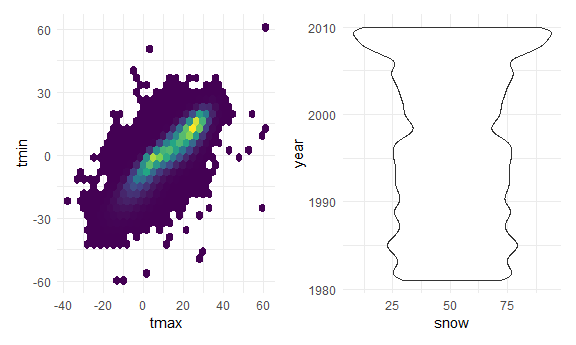
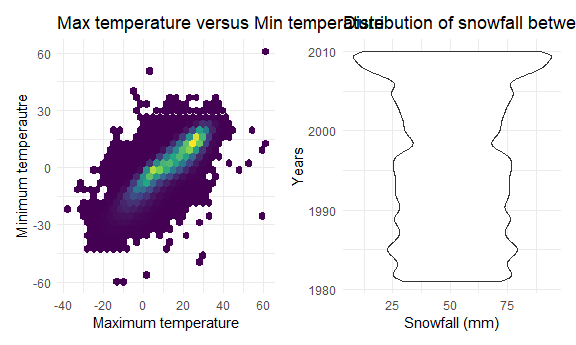
editing explanations and making graphs prettier

diff --git a/p8105_hw3_smv2138.md b/p8105_hw3_smv2138.md
@@ -210,7 +210,10 @@ variable to create a day\_type variable which indicates whether it is a
 weekday or a weekend. Furthermore, I pivoted the activity counts and
 minutes variables to longer. Now there is an activity count and min of
 the day variable in tidy format.Furthermore, by re-leveling the data,
-the days of the week will be listed in intuitive order.
+the days of the week will be listed in intuitive order. Lastly, there is
+a week variable which numbers the weeks during the observational period
+(1-5 weeks). All this data was collected from a 63 year old man with a
+BMI of 25 who was diagnosed with congestive heart failure.
 
 ### Part 2
 
@@ -302,13 +305,13 @@ day. Ensure observations for temperature, precipitation, and snowfall
 are given in reasonable units. For snowfall, what are the most commonly
 observed values? Why?
 
+Load data
+
 ``` r
 data("ny_noaa")
 ```
 
-Notes for me: Separated the date varible. Converted prcp, snow, snwd,
-tmin and tmax to numeric. Changed prcp, snow and snwd from mm to cm.
-Changed tmax and tmin from tenth of degrees of C to C.
+Clean data
 
 ``` r
 ny_noaa =
@@ -342,11 +345,10 @@ ny_noaa %>%
     ## 10     3    8790
     ## # ... with 272 more rows
 
-The most commonly observed value for snowfall in cm is 0. This is
-probably due to the fact that the data is collected from all around the
-world, and in many parts of the world, snow is rare or infrequent.
-Furthermore, the season also impacts how much snow or if there is snow
-at all in these regions.
+The most commonly observed value for snowfall in mm is 0. This is
+probably due to the fact that the data is collected from NYS. For the
+majority of a given year, there is not snow (Spring, Summer and most of
+Fall).
 
 ### Part 2
 
@@ -354,13 +356,10 @@ Make a two-panel plot showing the average max temperature in January and
 in July in each station across years. Is there any observable /
 interpretable structure? Any outliers?
 
-Notes for me: I filtered for only January and July and grouped by year,
-month and station id. Then I calculated the average of max temp. I usted
-these data manipulation sets to plot the graph.
-
 ``` r
 ny_noaa %>% 
   filter(month %in% c(01, 07)) %>% 
+  mutate(month = recode(month, '01' = "January", '07' = "July")) %>% 
   group_by(year, month, id) %>% 
   summarize(
     mean_max_temp = mean(tmax, na.rm = TRUE)
@@ -372,7 +371,8 @@ ny_noaa %>%
   labs(
     x = "Year",
     y = "Average Max Temp (c)"
-  )
+  ) +
+  theme(panel.spacing = unit(2, "lines"))
 ```
 
     ## `summarise()` regrouping output by 'year', 'month' (override with `.groups` argument)
@@ -384,11 +384,12 @@ ny_noaa %>%
 <img src="p8105_hw3_smv2138_files/figure-gfm/unnamed-chunk-11-1.png" width="90%" />
 Yes, there are two outliers in the July plot around 2005 and 2007, where
 one is above the plot and the other is below the plow respectively.
-These points are not connected by the path line. There are also some
-values that are far from the general average mean temp. For example, in
-the January plot, arounf 1999, the average mean temp was below -10
-degrees C with would be considered an outlier. Generally, however, most
-of the mean temps lie between 10 and 30 degrees C.
+These points are not connected by the path line. most of the mean temps
+lie between 10 and 30 degrees C. Therefore, there are also some values
+that are far from the general average mean temp. For example, in the
+January plot, around 1999, the average mean temp was below -10 degrees C
+with would be considered an outlier. There are several other instances
+like this in both months.
 
 ### Part 3
 
@@ -402,13 +403,24 @@ hex_plot =
 ny_noaa %>% 
   ggplot(aes(x = tmax, y = tmin)) +
   geom_hex() +
-  theme(legend.position = "none")
+  theme(legend.position = "none") +
+  labs(
+    title = "Max temperature versus Min temperature",
+    x = "Maximum temperature",
+    y = "Minimum temperautre"
+  )
+  
 
 violin_plot = 
   ny_noaa %>% 
   filter(snow < 100, snow > 0, na.rm = TRUE) %>% 
   ggplot(aes(x = snow, y = year)) +
-  geom_violin()
+  geom_violin() +
+  labs(
+    title = "Distribution of snowfall between 0 to 100 mm by year",
+    x = "Snowfall (mm)",
+    y = "Years"
+  )
   
 hex_plot + violin_plot  
 ```
